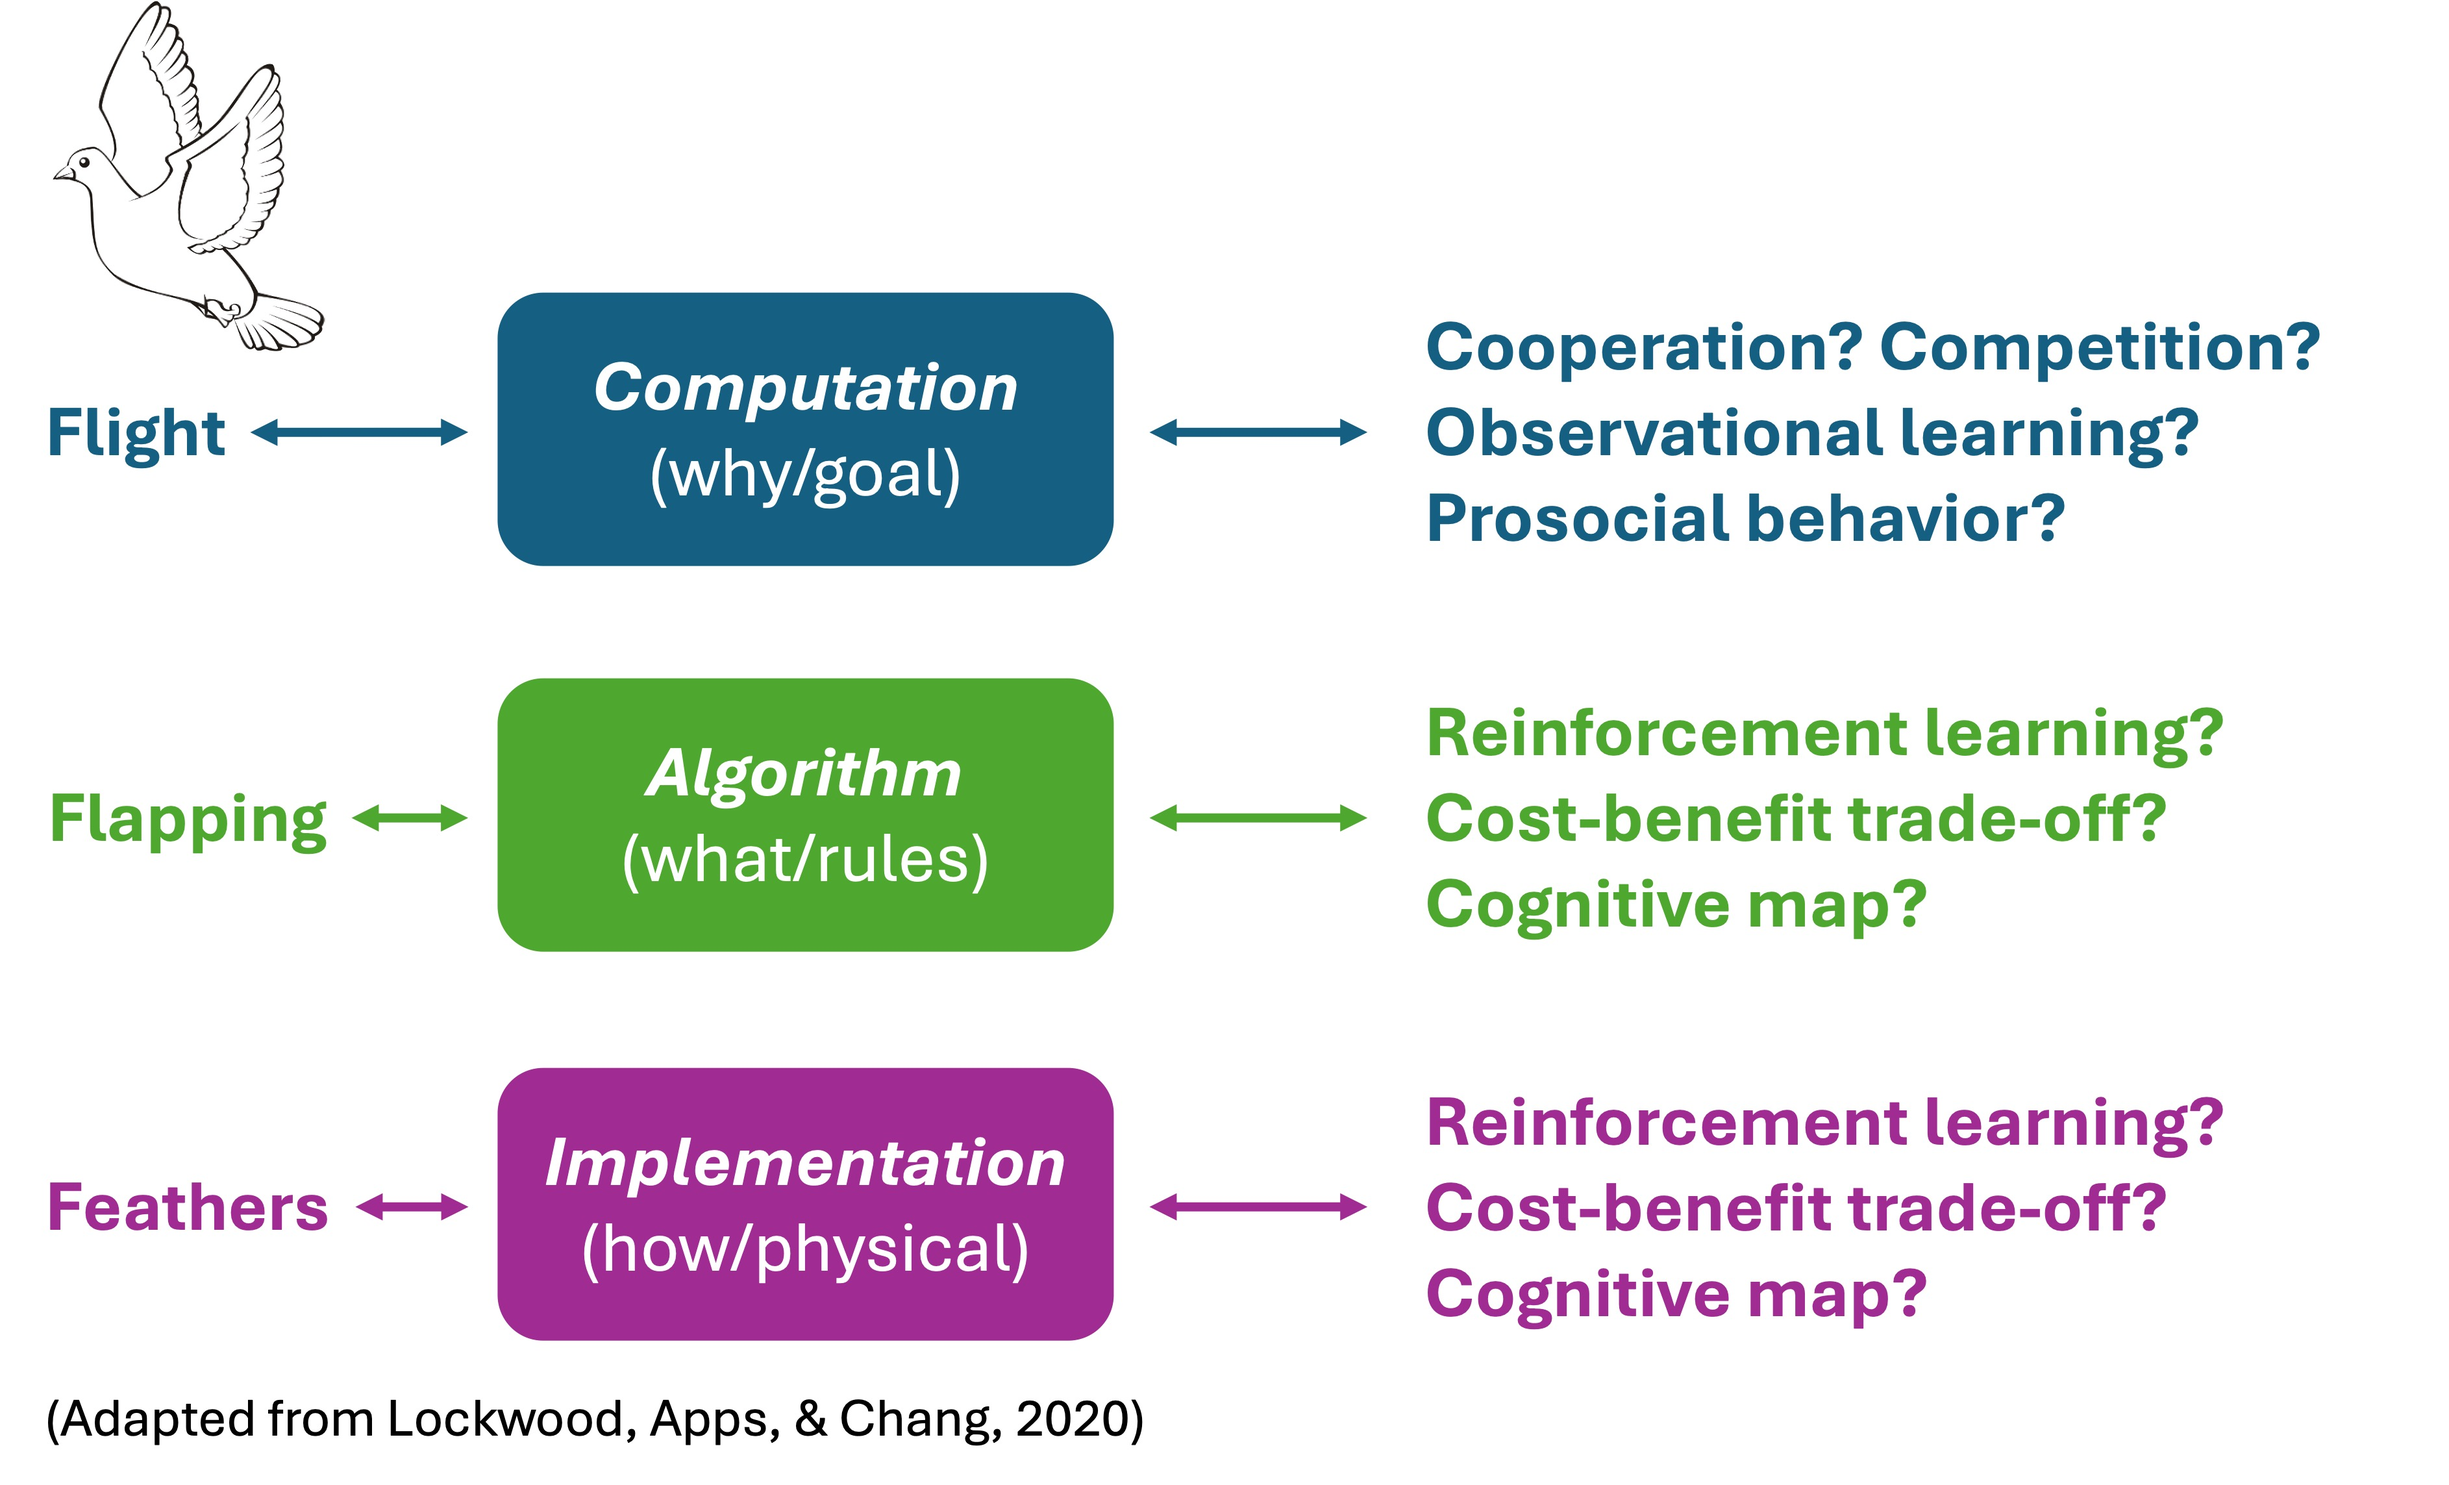
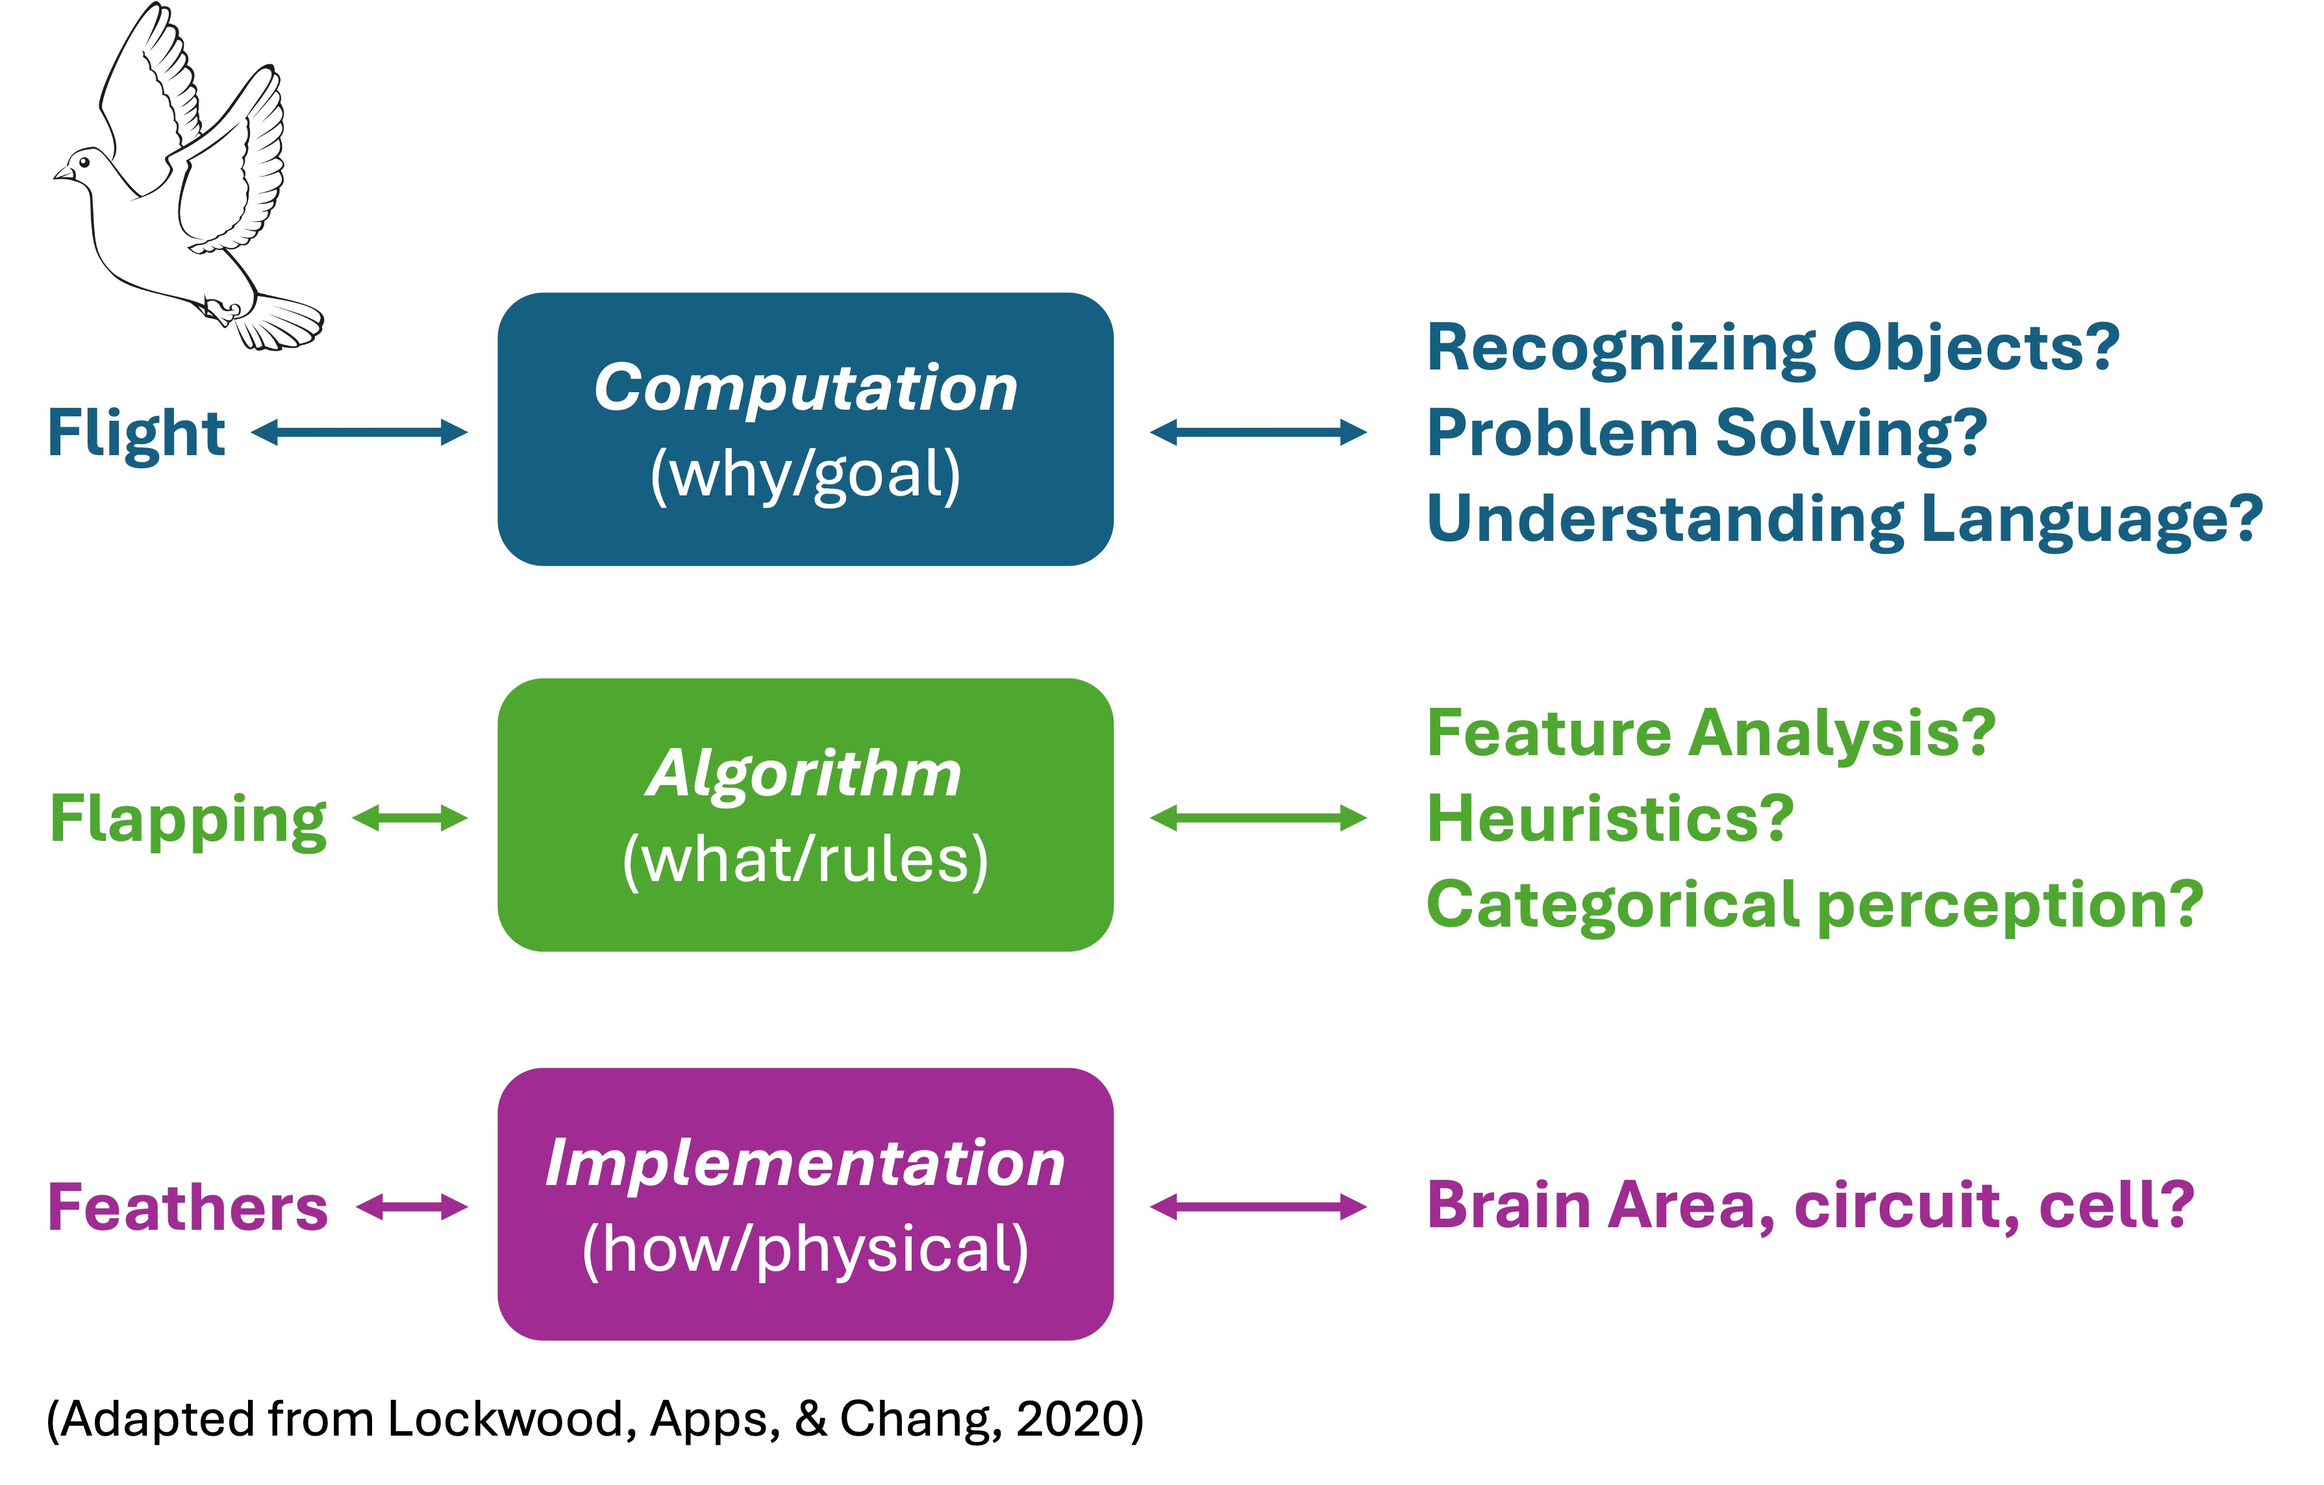
Updated Marr figure

diff --git a/_pages/intro-methods/introduction.md b/_pages/intro-methods/introduction.md
@@ -66,7 +66,7 @@ Marr likened visual processing to information processing in a computer system, a
 
 <figure>
     <img src="https://bobsthinktank.github.io/PSYC341OER/images/marr_fig.jpg" alt="Example of Marr's levels of analysis.">
-    <figcaption> How bird flight might be analyzed based on Marr's three levels. [3]</figcaption>
+    <figcaption> How bird flight (left) and some cognitive processes (right) might be analyzed based on Marr's three levels. [3]</figcaption>
 </figure>
 
 Of course, it would be great to have explanations that span all three levels of analysis, but that's a tall order! Practically, much can be gained by focusing on a single level of analysis. For example, classical genetics allows us to predict how inherited traits are distributed without an understanding of DNA. More generally, as suggested above, explanations at one level can be "multiply realized" at other levels. That is, there are many potential implementations for a given algorithm and many potential algorithms for a given computational goal. For example, if I have a (computational level) goal to travel to the beach, I can realize that goal algorithmically by driving a car, flying in an airplane, maybe riding a bike, etc. And if I drive, I could realize that algorithm by relying on power stemming from a series of controlled explosions in an internal combustion engine or on power stemming from the conversion of chemical energy to electricity in an electric engine. Thus an explanation at one level of analysis can be (at least somewhat) independent from explanations at other levels.
@@ -108,7 +108,7 @@ However, it is important to realize that cognitive research has not always had u
 ## Image credits
 1. Bob Slevc, [CC BY 4.0](https://creativecommons.org/licenses/by/4.0/)
 2. Frits Ahlefeldt, https://commons.wikimedia.org/wiki/File:Man-inside-note-head.jpg, [CC BY-SA 3.0](https://creativecommons.org/licenses/by-sa/3.0/deed.en)
-3. Modeled after Figure 1 from Lockwood, Apps, & Chang (2020) by Bob Slevc, [CC BY 4.0](https://creativecommons.org/licenses/by/4.0/)
+3. Modeled after Figure 1 from [Lockwood, Apps, & Chang (2020)](https://doi.org/10.1016/j.tics.2020.06.011) by Bob Slevc, [CC BY 4.0](https://creativecommons.org/licenses/by/4.0/)
 {: .small}
 
 ##  References
